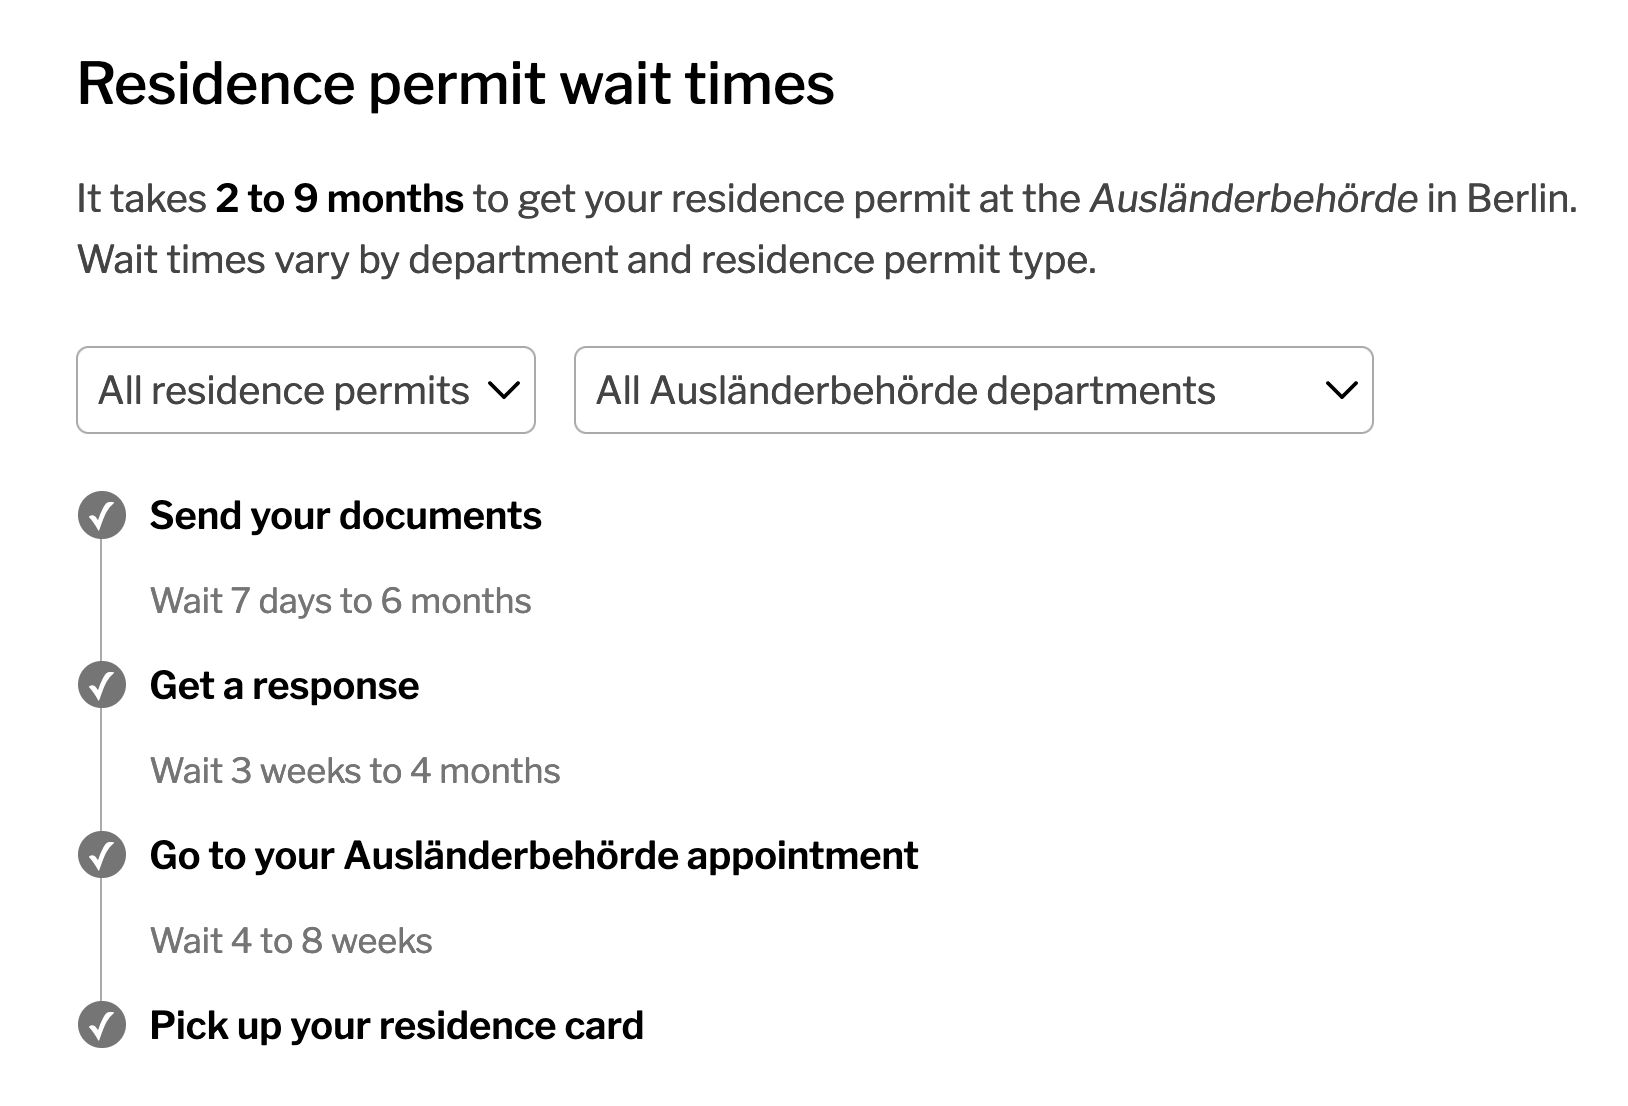
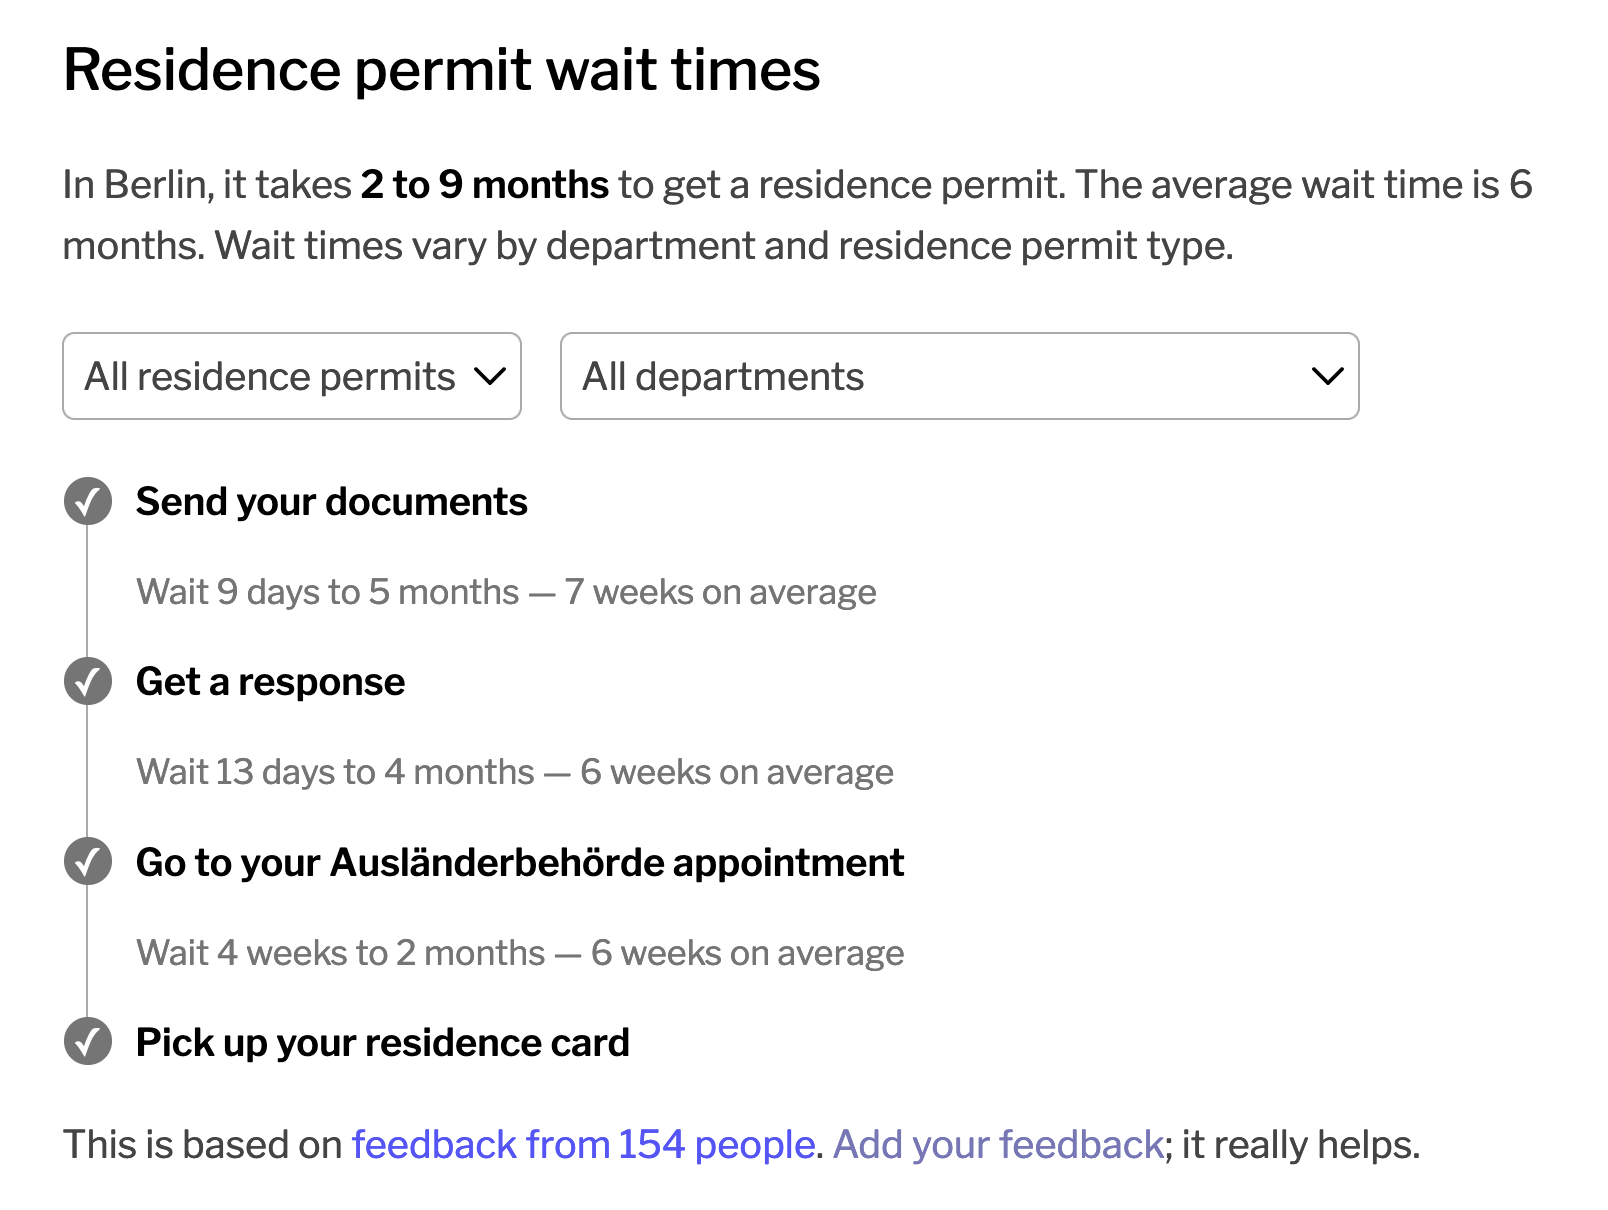
immigration-office-wait-times: Add illustrations

diff --git a/content/projects/immigration-office-wait-times.md b/content/projects/immigration-office-wait-times.md
@@ -8,23 +8,25 @@ categories:
     allaboutberlin
 ---
 
-I made [a tool](https://allaboutberlin.com/guides/auslanderbehorde-wait-times) that collects and displays feedback about wait times at the Berlin immigration office. It's on [All About Berlin](/projects/all-about-berlin) since November 2024.
+I made [a tool](https://allaboutberlin.com/guides/auslanderbehorde-wait-times) to measure and display wait times at the Berlin immigration office. It collects user reports and shows statistics by department and residence permit type. It's on [All About Berlin](/projects/all-about-berlin) since November 2024.
 
 ![Tool that shows LEA wait times](/images/lea-wait-times.png)
 
 {% include "blocks/_tableOfContents.html" %}
 
-## Introduction
+## What's wrong?
 
 For many, moving to Berlin means applying for a residence permit and renewing it every 2 to 4 years.
 
 No one knows exactly how long this process takes. Wait times vary from 1 to 10 months, depending on the department, the residence permit type, and pure luck.
 
-While they wait, people are often left unable to start a new job and earn a living. People frequently lose their job before they even start due to immigration office delays.
+While they wait, people are often left unable to start a new job and earn a living. Immigrants lose their job before they even start because of to those delays. A friend I was hosting ran out of savings before he even got a response from the immigration office. He had to move back to his home country. These are not isolated cases.
 
-In other cases, their old residence permit expires, and they are unable to travel outside Germany for months on end. People miss weddings and funerals, unable to secure the *[Fiktionsbescheinigung](https://allaboutberlin.com/guides/fiktionsbescheinigung)* that would let them re-enter the country.
+In other cases, their old residence permit expires, and they are unable to travel for months on end. They miss weddings and funerals, because they wouldn't be allowed back into Germany.
 
-I navigate people through the immigration process [since 2017](/project/all-about-berlin), and I still don't know how long these things take. This needed to change. By giving people a clear timeline of their residence permit application, I can make their journey much less stressful.
+I navigate people through this process since 2017, and I still didn't have a precise idea of how long it takes. This needed to change.
+
+By giving people a clear timeline of their residence permit application, their journey becomes more predictable, and much less stressful. It does not speed up the process, but it helps people plan around it. 
 
 So I have built [a tool](https://allaboutberlin.com/guides/auslanderbehorde-wait-times) that collects reports from readers and measures wait times by department and residence permit type.
 
@@ -32,13 +34,17 @@ So I have built [a tool](https://allaboutberlin.com/guides/auslanderbehorde-wait
 
 I already wrote about [how predictability reduces anxiety](/projects/all-about-berlin), and how [a good map improves any journey](/blog/maps).
 
-It's one thing not to know when your food delivery is coming, and another not to know when you will receive a regular paycheck and stop burning through your savings. A friend I was hosting ran out of money before he even got a response from the immigration office. This is not an isolated case.
+What makes ride sharing and food delivery apps so great in my mind is that they give you an ETA. You know when your driver is coming, so you can sit inside and finish your drink instead of waiting outside in the cold. The experience of waiting is greatly improved by knowing how long you are going to wait.
+
+![Map showing a driver's ETA](/images/illustrations/map-eta.png)
+
+Even when wait times are not known, you can hint at wait times. For example, Google Maps tells you how busy a restaurant is before you even get there.
+
+![Google Maps showing how busy a place is](/images/illustrations/google-maps-busy-times.png)
+
+I wanted to bring the same sort of predictability to a place where much more is at stake: the immigration office. It's one thing not to know when your lunch is coming, and another not to know when you will receive a regular paycheck and stop burning through your savings.
 
 Other people also have a stake in this: your dependents who came to Germany with you, and your employer who is hoping you can start working soon. People regularly lose their job because they even start due to immigration office delays.
-
-What makes ride sharing and food delivery apps so great in my mind is that they give you an ETA. The experience of waiting is greatly improved by knowing how long you are going to wait.
-
-Having the same sort of ETA for something as important as your right to live in this country? That would be a game changer.
 
 ## How it works
 
